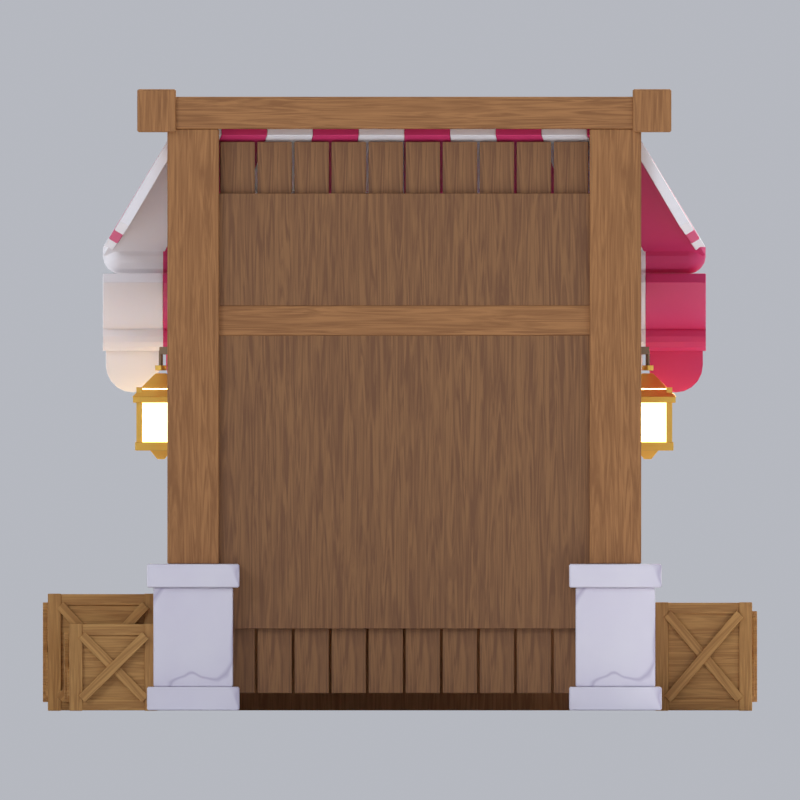
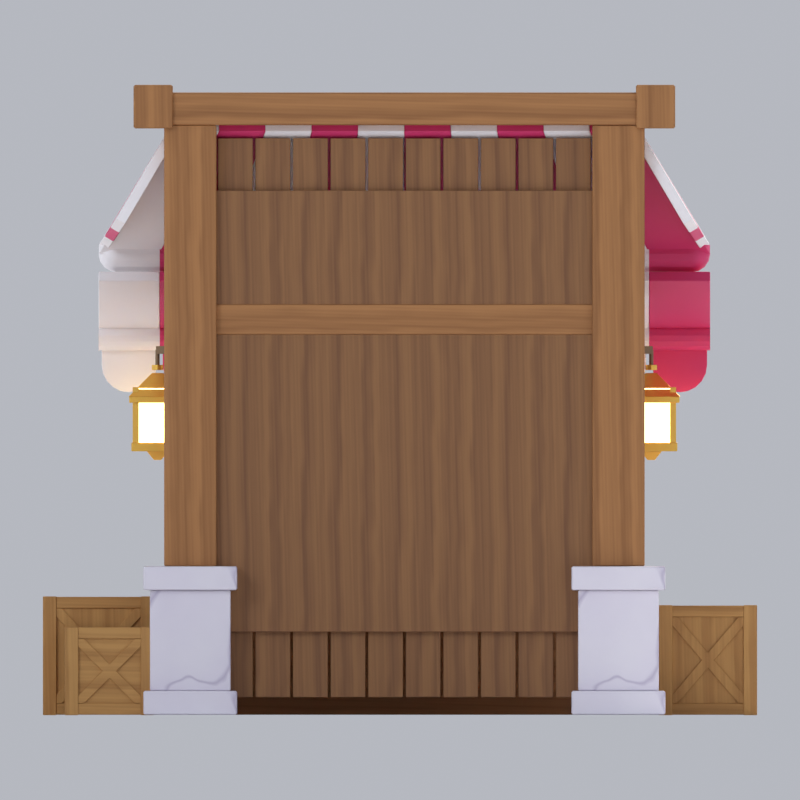
Craft crate: horizontal frame edges fit between corner posts (fix black corner dots); market renders
Claude-Session: https://claude.ai/code/session_01WBHFtY8GW2TXQbDqA48e1u

diff --git a/assets/lobby/scripts/build_04_craft_shop.py b/assets/lobby/scripts/build_04_craft_shop.py
@@ -359,11 +359,12 @@ def build(P, root):
                               wood_frame, 0.05, c=C["Props"]))
     for sz_ in (-1, 1):
         for sy_ in (-1, 1):
-            objs.append(L.box(f"CRF_CrateEdgeX_{sz_}{sy_}", (cw, t, t), (ccx, ccy + sy_ * (cd / 2 - t / 2),
+            # horizontal edges fit BETWEEN the corner posts (full-length ends z-fought -> black corner dots)
+            objs.append(L.box(f"CRF_CrateEdgeX_{sz_}{sy_}", (cw - 2 * t + 0.01, t, t), (ccx, ccy + sy_ * (cd / 2 - t / 2),
                                                                          ccz + sz_ * (chh / 2 - t / 2)),
                               wood_frame, 0.05, c=C["Props"]))
         for sx in (-1, 1):
-            objs.append(L.box(f"CRF_CrateEdgeY_{sz_}{sx}", (t, cd, t), (ccx + sx * (cw / 2 - t / 2), ccy,
+            objs.append(L.box(f"CRF_CrateEdgeY_{sz_}{sx}", (t, cd - 2 * t + 0.01, t), (ccx + sx * (cw / 2 - t / 2), ccy,
                                                                         ccz + sz_ * (chh / 2 - t / 2)),
                               wood_frame, 0.05, c=C["Props"]))
     # X on front, back and both sides: ONE merged solid per face, clipped to the frame opening,
